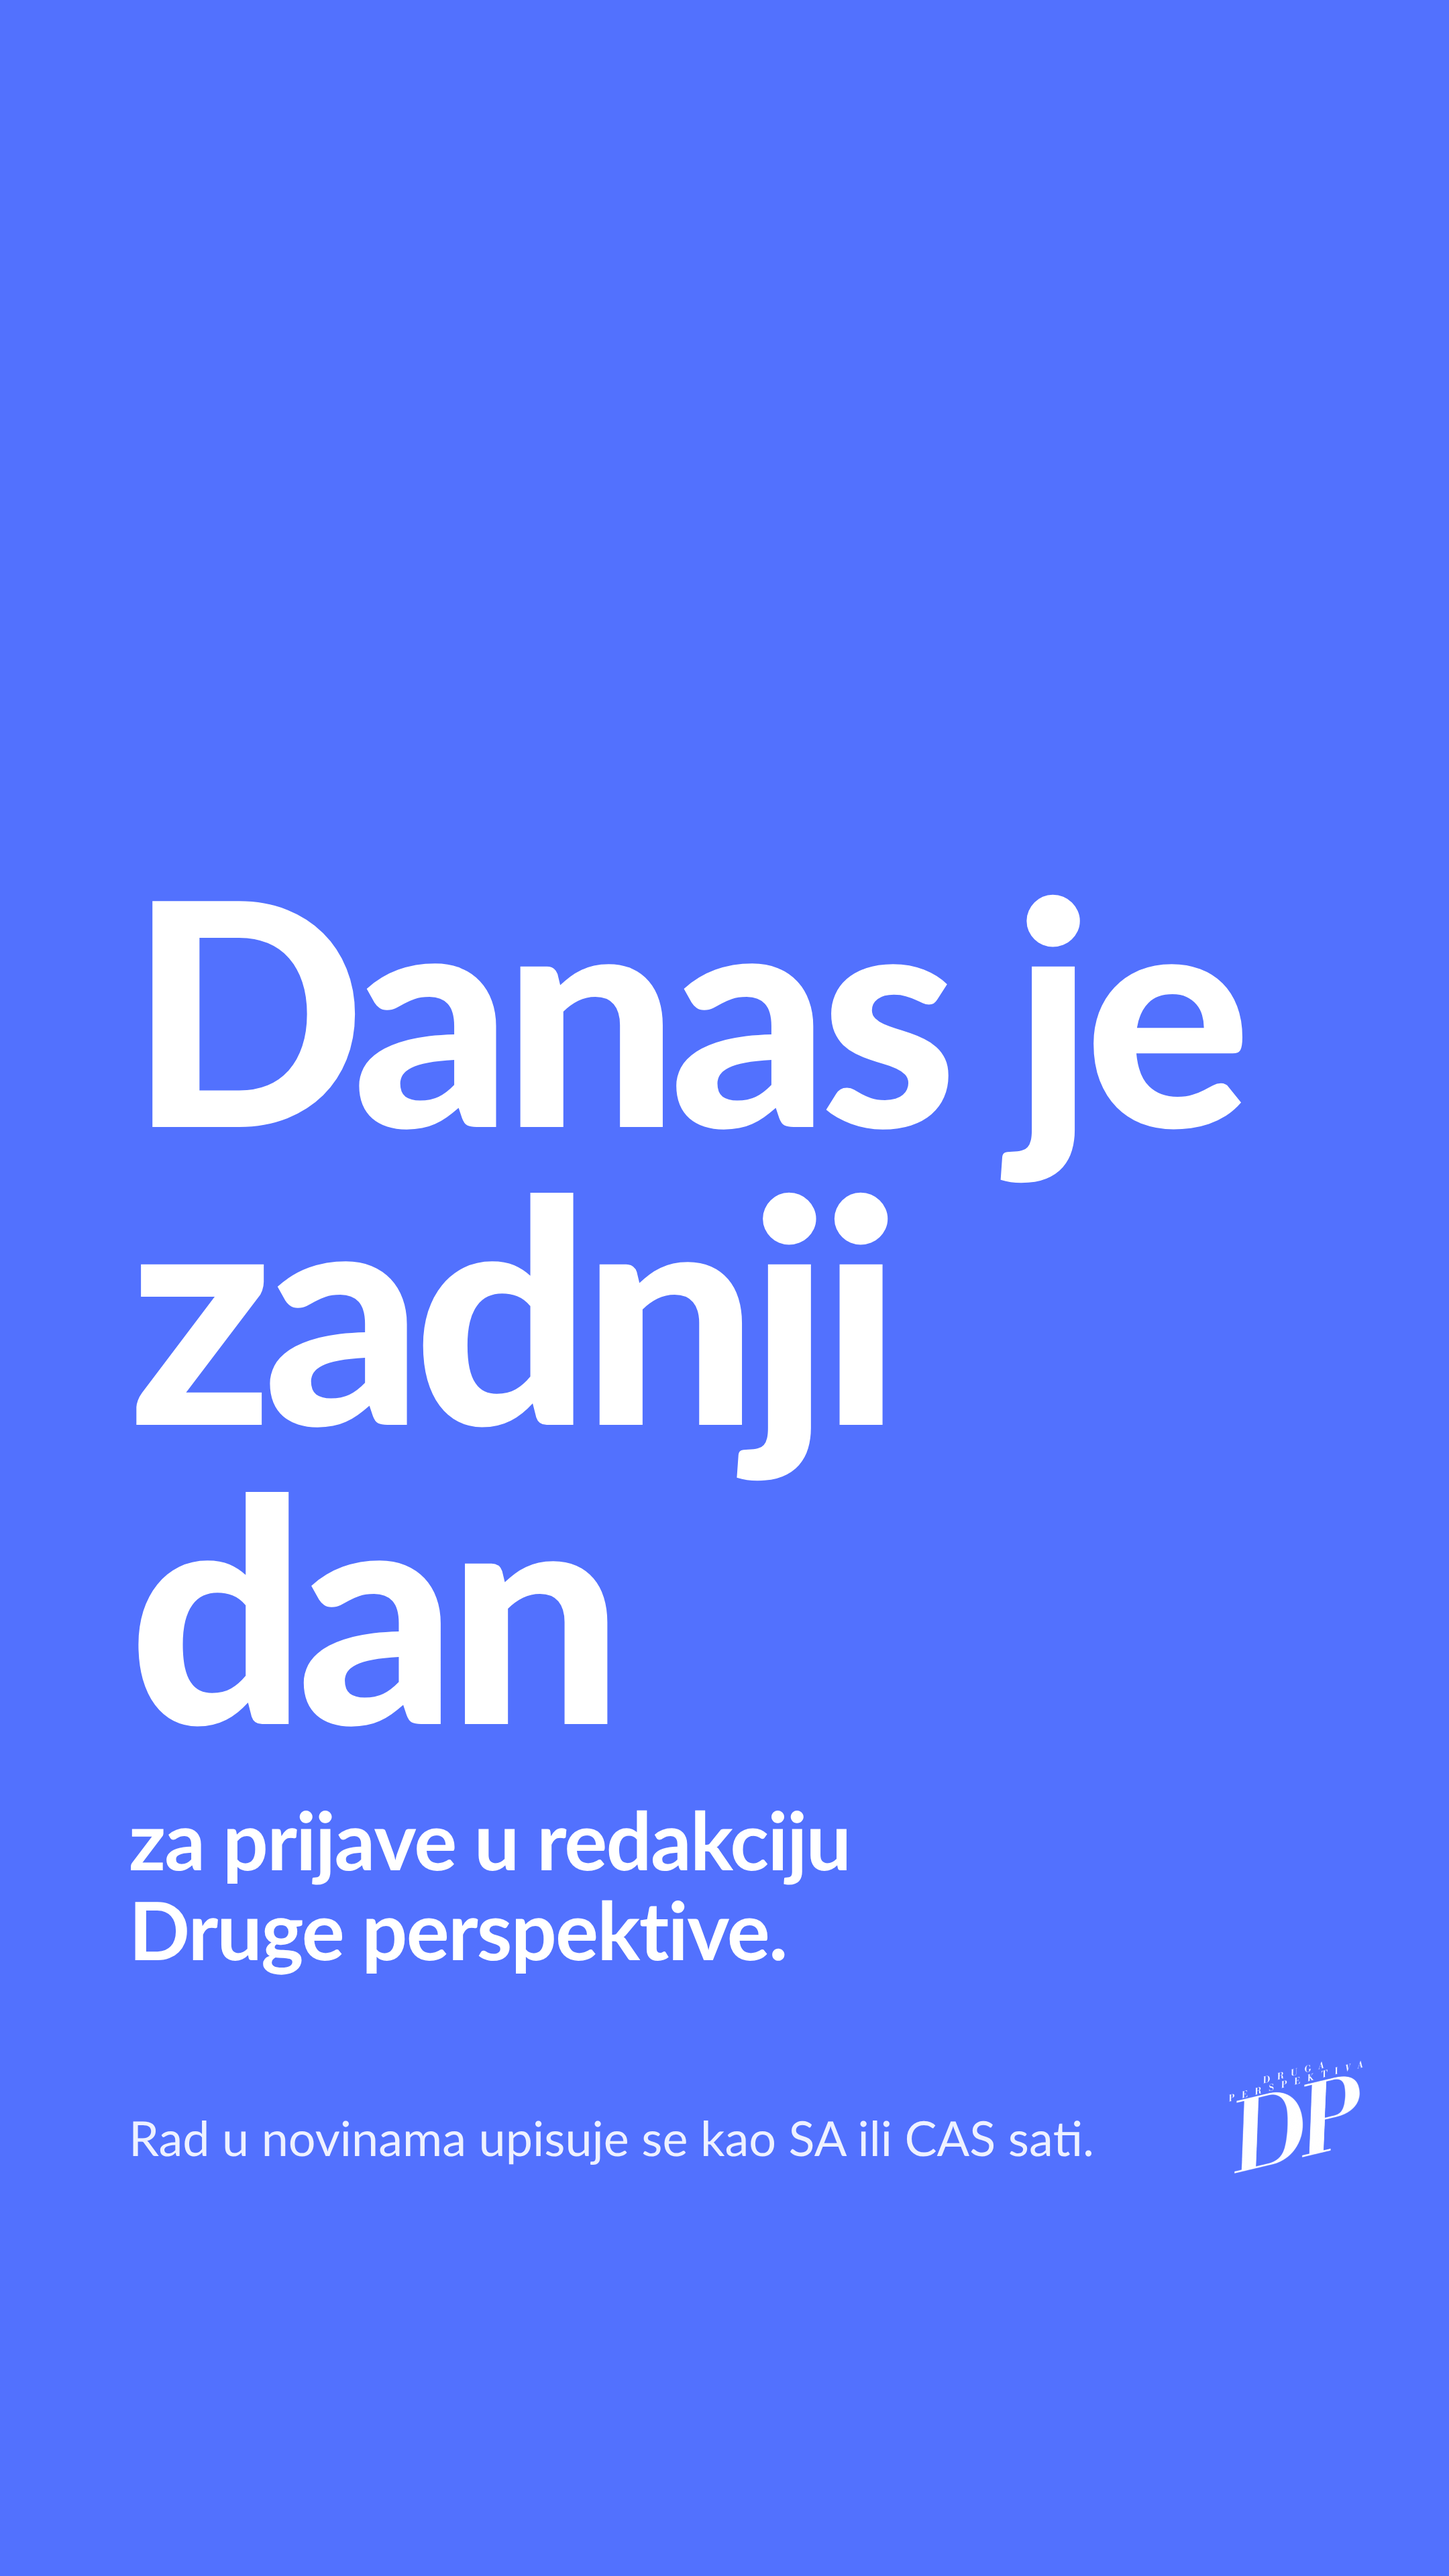
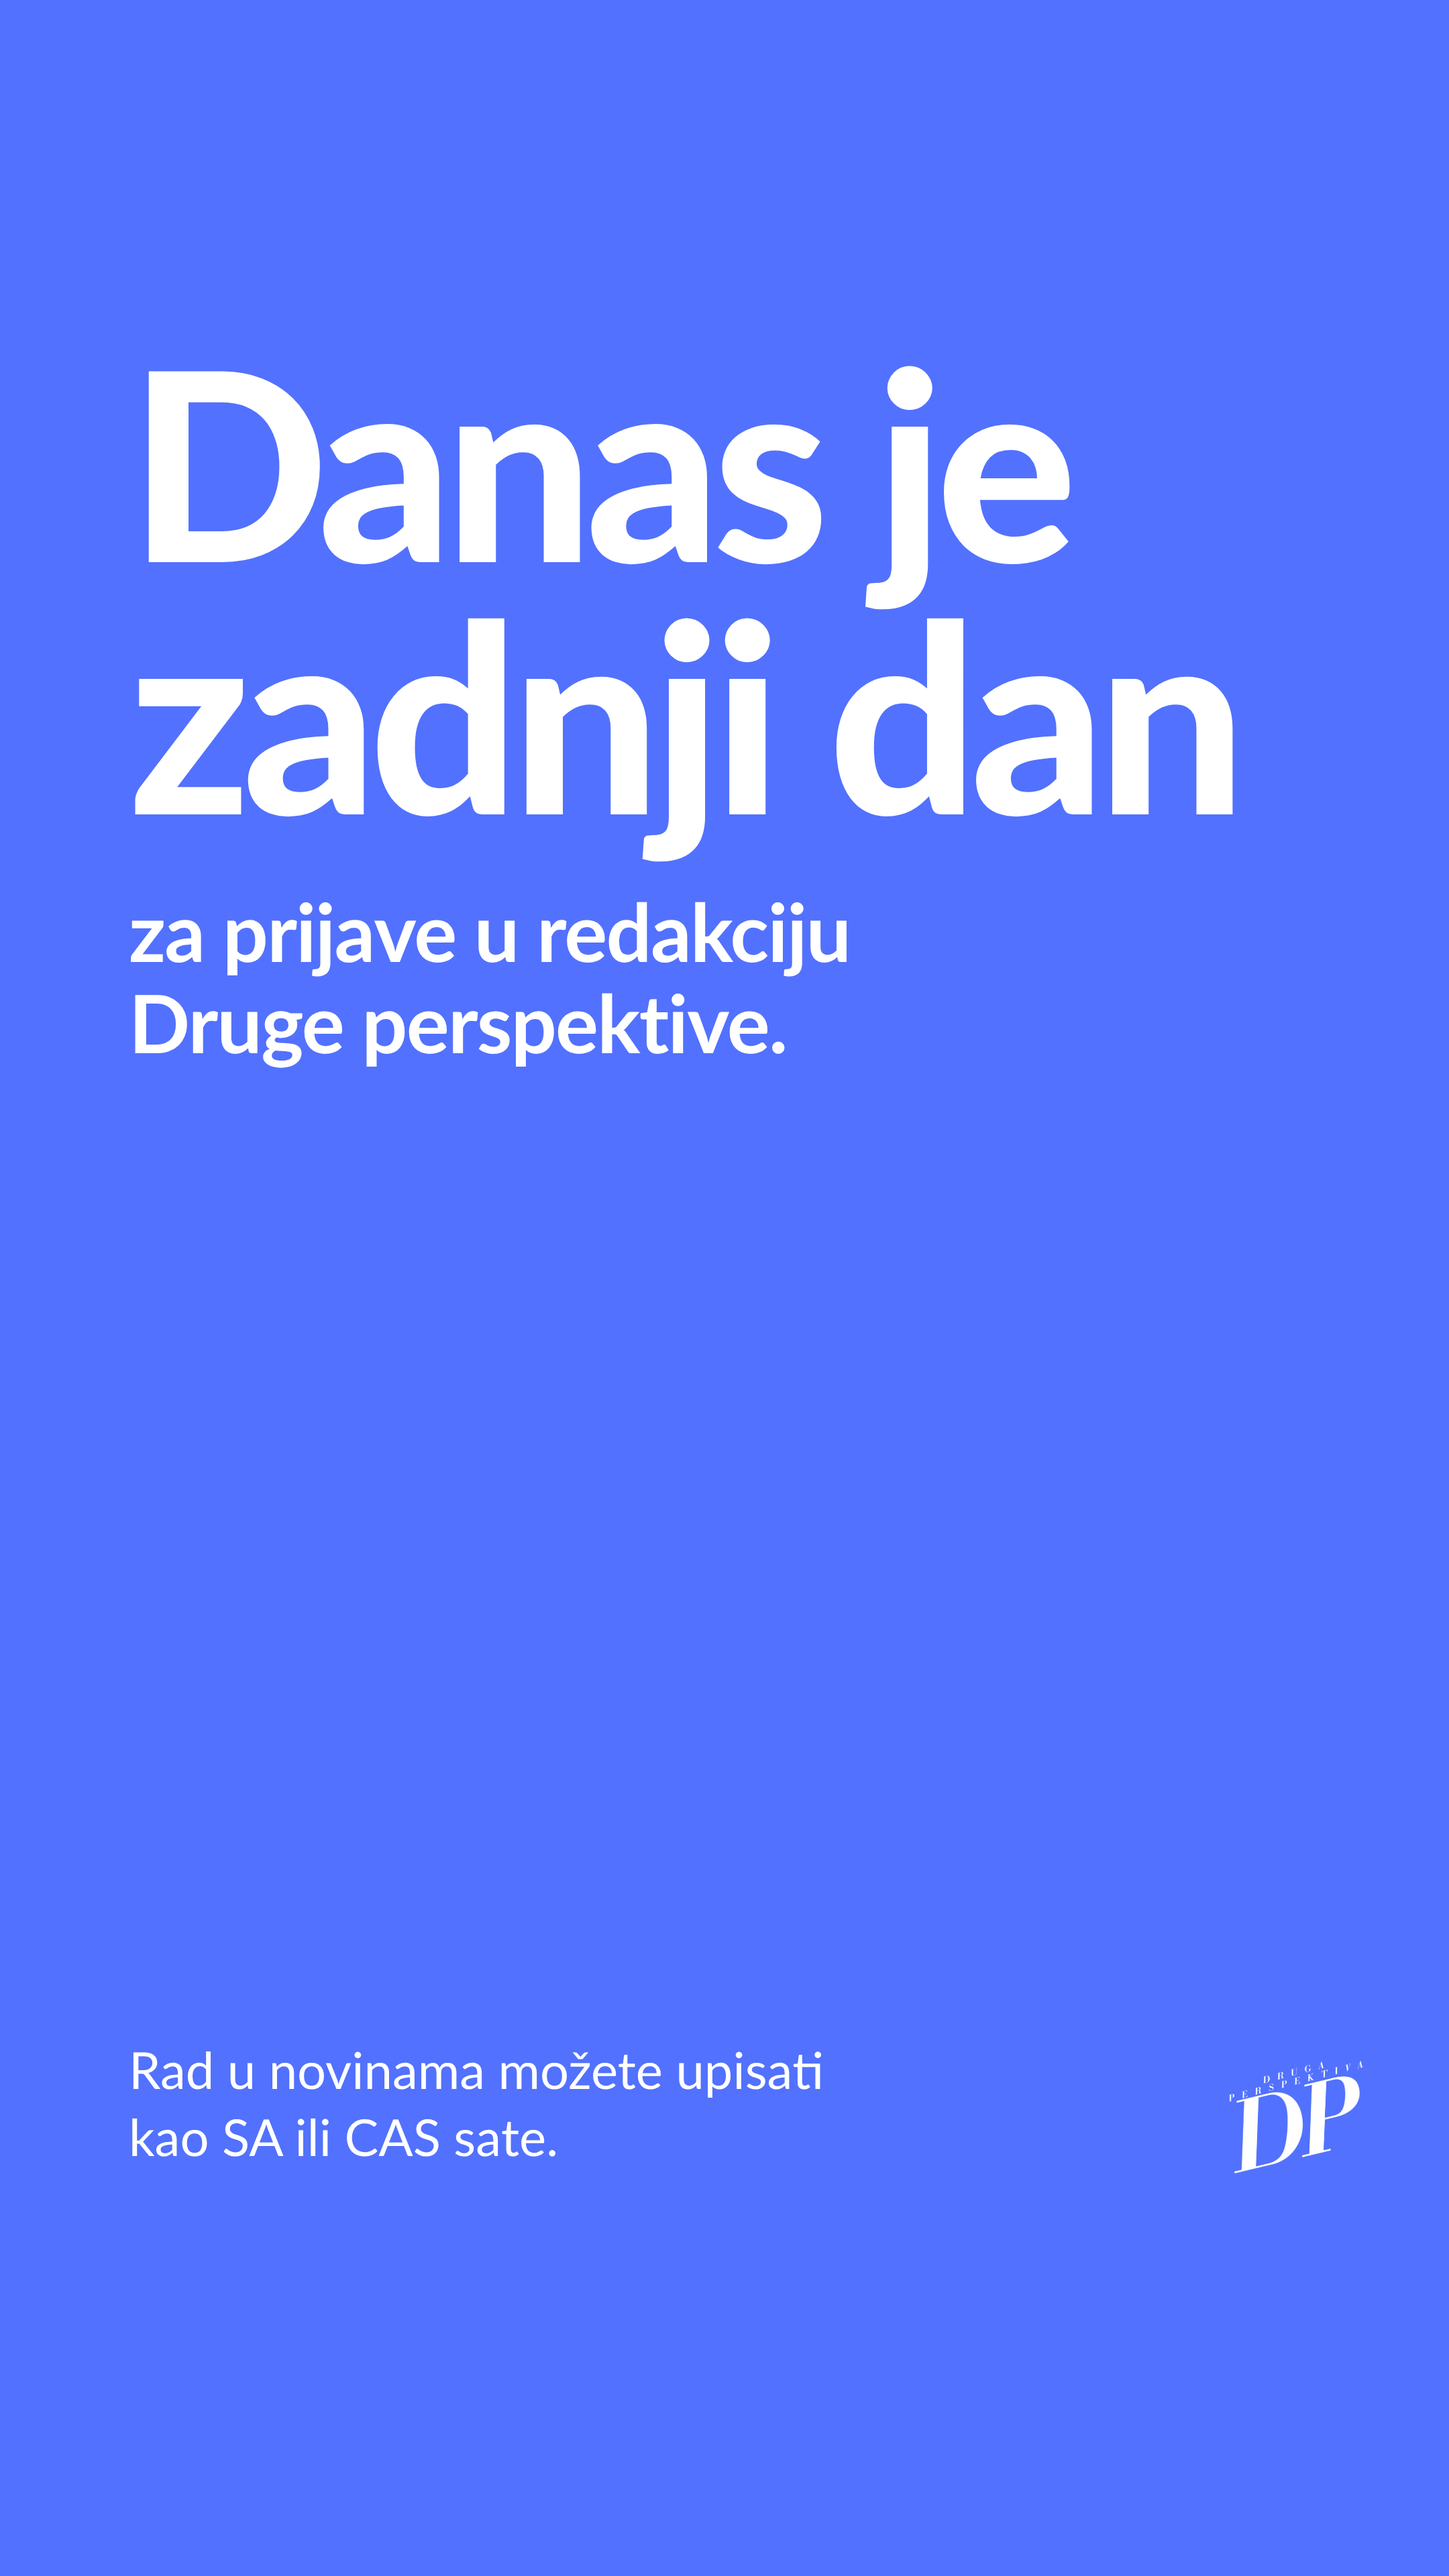
Prijave: tekst od vrha, mjesto za stiker, pregled sa stikerom
Claude-Session: https://claude.ai/code/session_01LzMpRsfrg5uNj5HJ7UXVFE

Changed region(s): [[0.0931, 0.125, 0.8685, 0.8438], [0.6824, 0.3438, 0.8685, 0.4688], [0.7134, 0.8125, 0.7444, 0.8438]]

diff --git a/promo/prijave-redakcija/dizajn.html b/promo/prijave-redakcija/dizajn.html
@@ -75,19 +75,36 @@ body { background: #777; font-family: "Lato", sans-serif; color: #fff; padding: 
 
 
 .prijave { --m: 96px; background: var(--plava); }
-.prijave .blok { position: absolute; left: var(--m); right: 64px; bottom: 300px; }
-.prijave .izjava { font-size: 232px; line-height: .96; letter-spacing: -0.03em; text-wrap: wrap; }
-.prijave .nastavak { margin-top: 36px; font-size: 60px; font-weight: 700; line-height: 1.12; letter-spacing: -0.015em; max-width: 860px; text-wrap: balance; }
-.prijave .napomena { margin-top: 96px; font-size: 36px; line-height: 1.3; color: rgba(255,255,255,.9); }
+.prijave .vrh { position: absolute; left: var(--m); right: 64px; top: 250px; }
+.prijave .izjava { font-size: 196px; line-height: .96; letter-spacing: -0.03em; }
+.prijave .nastavak { margin-top: 40px; font-size: 60px; font-weight: 700; line-height: 1.12; letter-spacing: -0.015em; }
+.prijave .dno { position: absolute; left: var(--m); right: 200px; bottom: 300px; }
+.prijave .napomena { font-size: 38px; line-height: 1.3; color: #fff; }
+/* Samo za pregled: gdje ide Instagram stiker s linkom. */
+.stiker { position: absolute; left: var(--m); top: 1000px; background: #fff; color: var(--plava); font-weight: 700; font-size: 44px; padding: 22px 40px; border-radius: 20px; }
 </style>
 </head>
 <body>
 
 <section class="slide story prijave">
-	<div class="blok">
-		<h1 class="izjava">Danas je<br>zadnji<br>dan</h1>
-		<p class="nastavak">za prijave u redakciju Druge perspektive.</p>
-		<p class="napomena">Rad u novinama upisuje se kao SA ili CAS sati.</p>
+	<div class="vrh">
+		<h1 class="izjava">Danas je<br>zadnji dan</h1>
+		<p class="nastavak">za prijave u redakciju<br>Druge perspektive.</p>
+	</div>
+	<div class="dno">
+		<p class="napomena">Rad u novinama možete upisati<br>kao SA ili CAS sate.</p>
+	</div>
+	<img class="logo" src="../../dp-objave/assets/logo-bijeli.png" alt="">
+</section>
+
+<section class="slide story prijave">
+	<div class="vrh">
+		<h1 class="izjava">Danas je<br>zadnji dan</h1>
+		<p class="nastavak">za prijave u redakciju<br>Druge perspektive.</p>
+	</div>
+	<div class="stiker">Prijavi se</div>
+	<div class="dno">
+		<p class="napomena">Rad u novinama možete upisati<br>kao SA ili CAS sate.</p>
 	</div>
 	<img class="logo" src="../../dp-objave/assets/logo-bijeli.png" alt="">
 </section>
